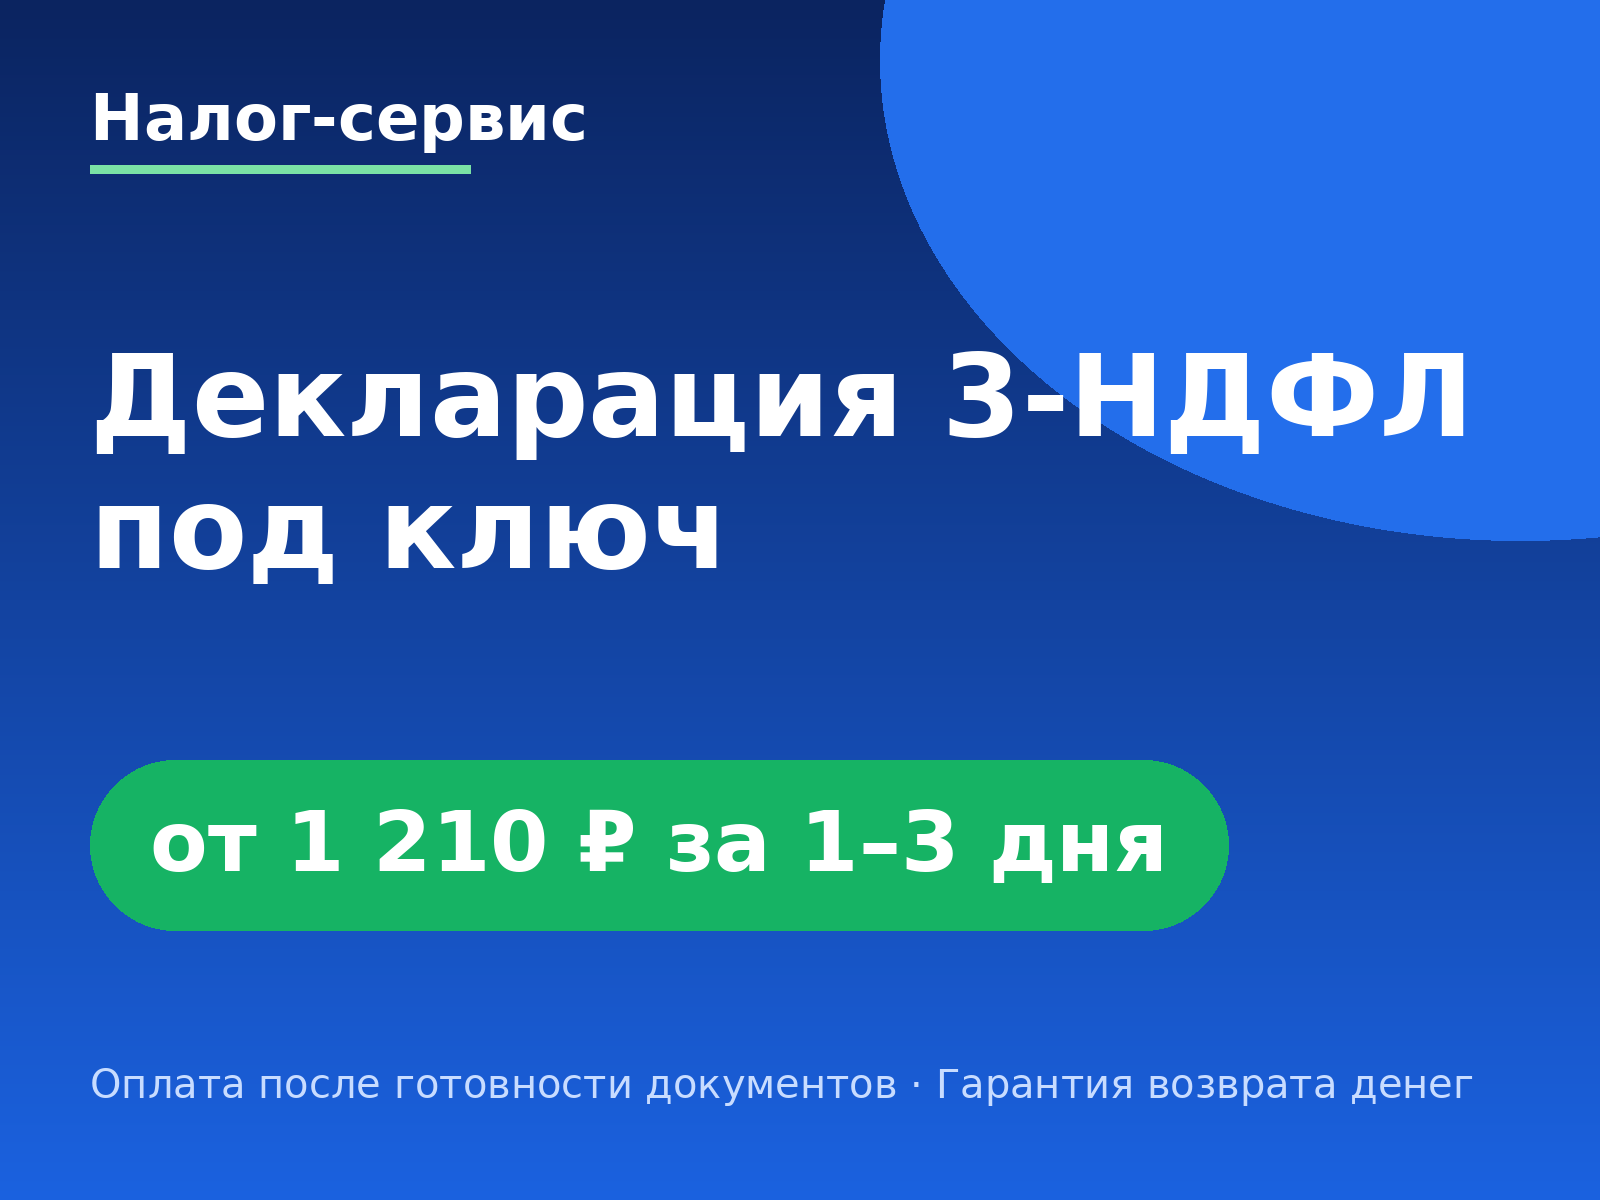
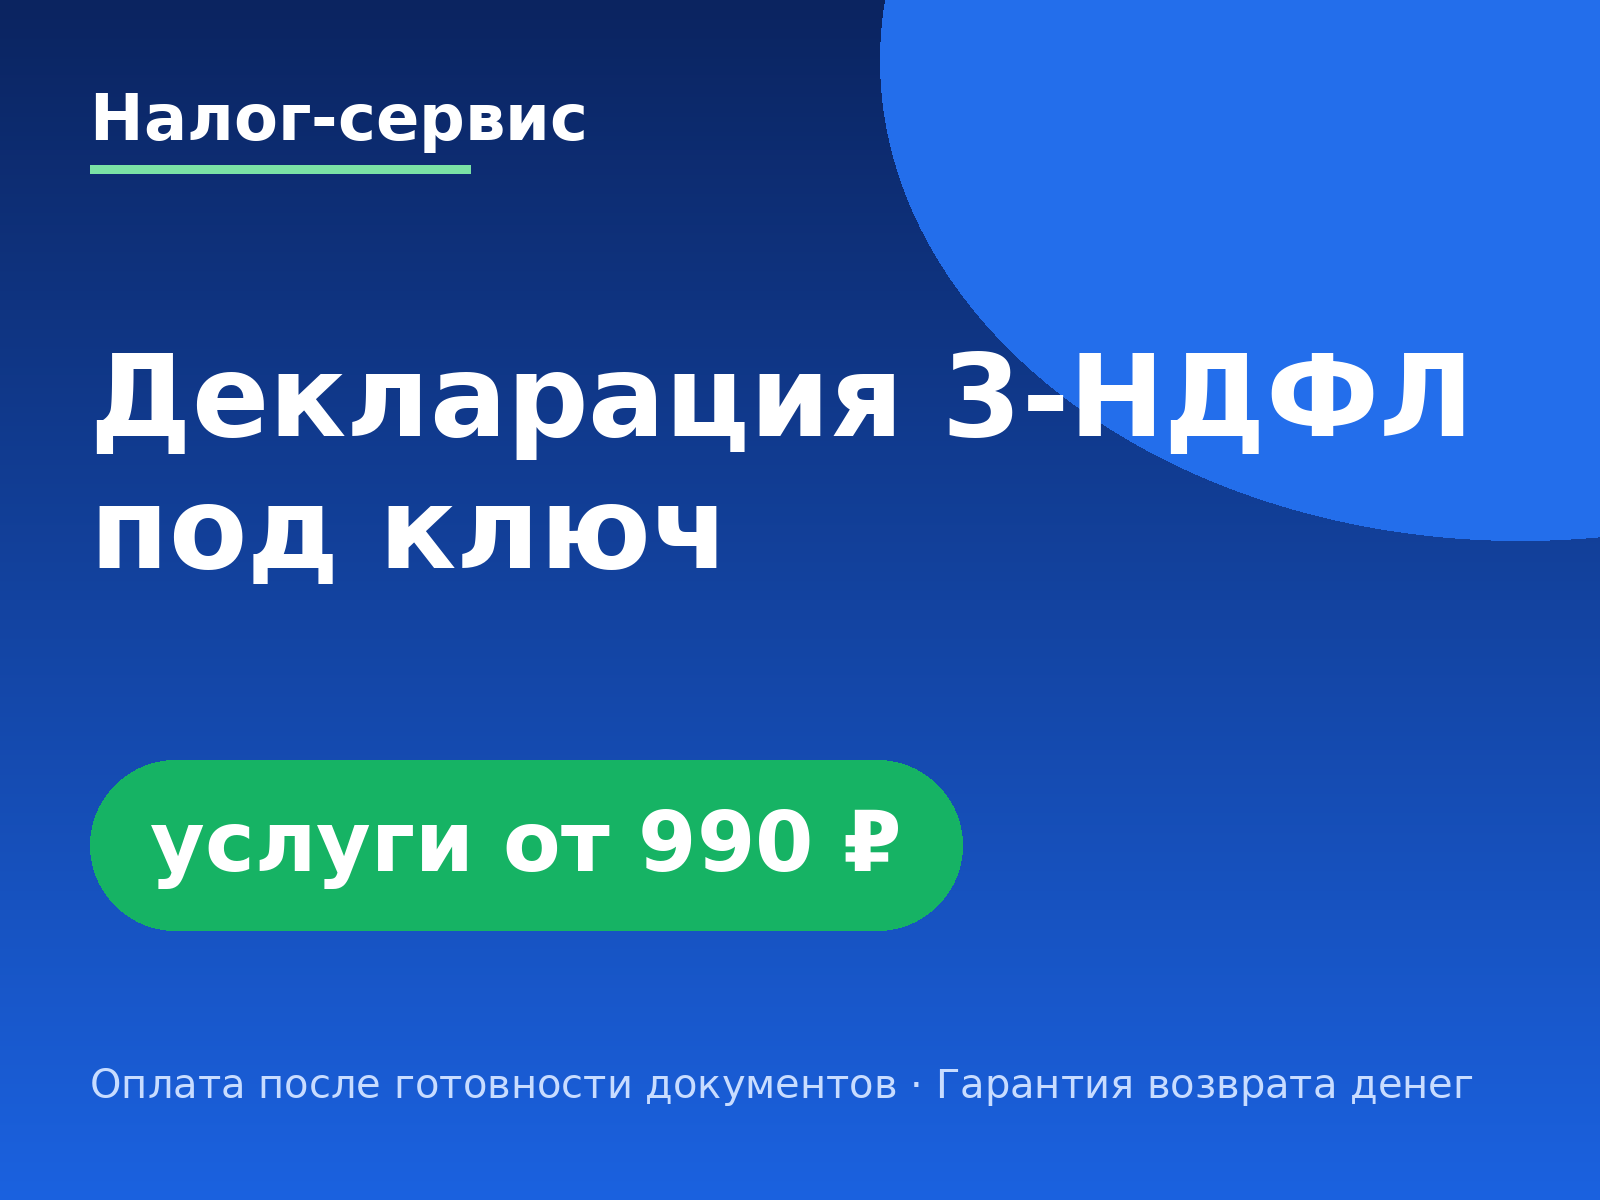
Авито: обложка и объявление «под ключ» — услуги от 990 ₽
Claude-Session: https://claude.ai/code/session_012ZEn4nGYHKTsmaxR1YwXFR

Changed region(s): [[0.0938, 0.6167, 0.7812, 0.8017]]

diff --git a/docs/avito/avito-reklama.md b/docs/avito/avito-reklama.md
@@ -180,7 +180,7 @@
 ### Объявление 6 — Универсальное «под ключ»
 **Обложка:** `img/avito-inaya.png`
 **Заголовок (43 зн.):** `Декларация 3-НДФЛ под ключ — любая ситуация`
-**Цена:** 1 210 ₽
+**Цена:** 990 ₽
 
 ```
 Заполню декларацию 3-НДФЛ за вас — быстро, без ошибок, дистанционно.
@@ -198,7 +198,7 @@
    или верну деньги полностью
 ✔ Могу сам подать документы в налоговую за вас
 
-Стоимость: от 1 210 ₽. С подачей в налоговую — 1 540 ₽.
+Стоимость: от 990 ₽. С подачей в налоговую — 1 540 ₽.
 
 Напишите вашу ситуацию в чат — отвечу, сколько вы можете вернуть
 и что для этого нужно.
